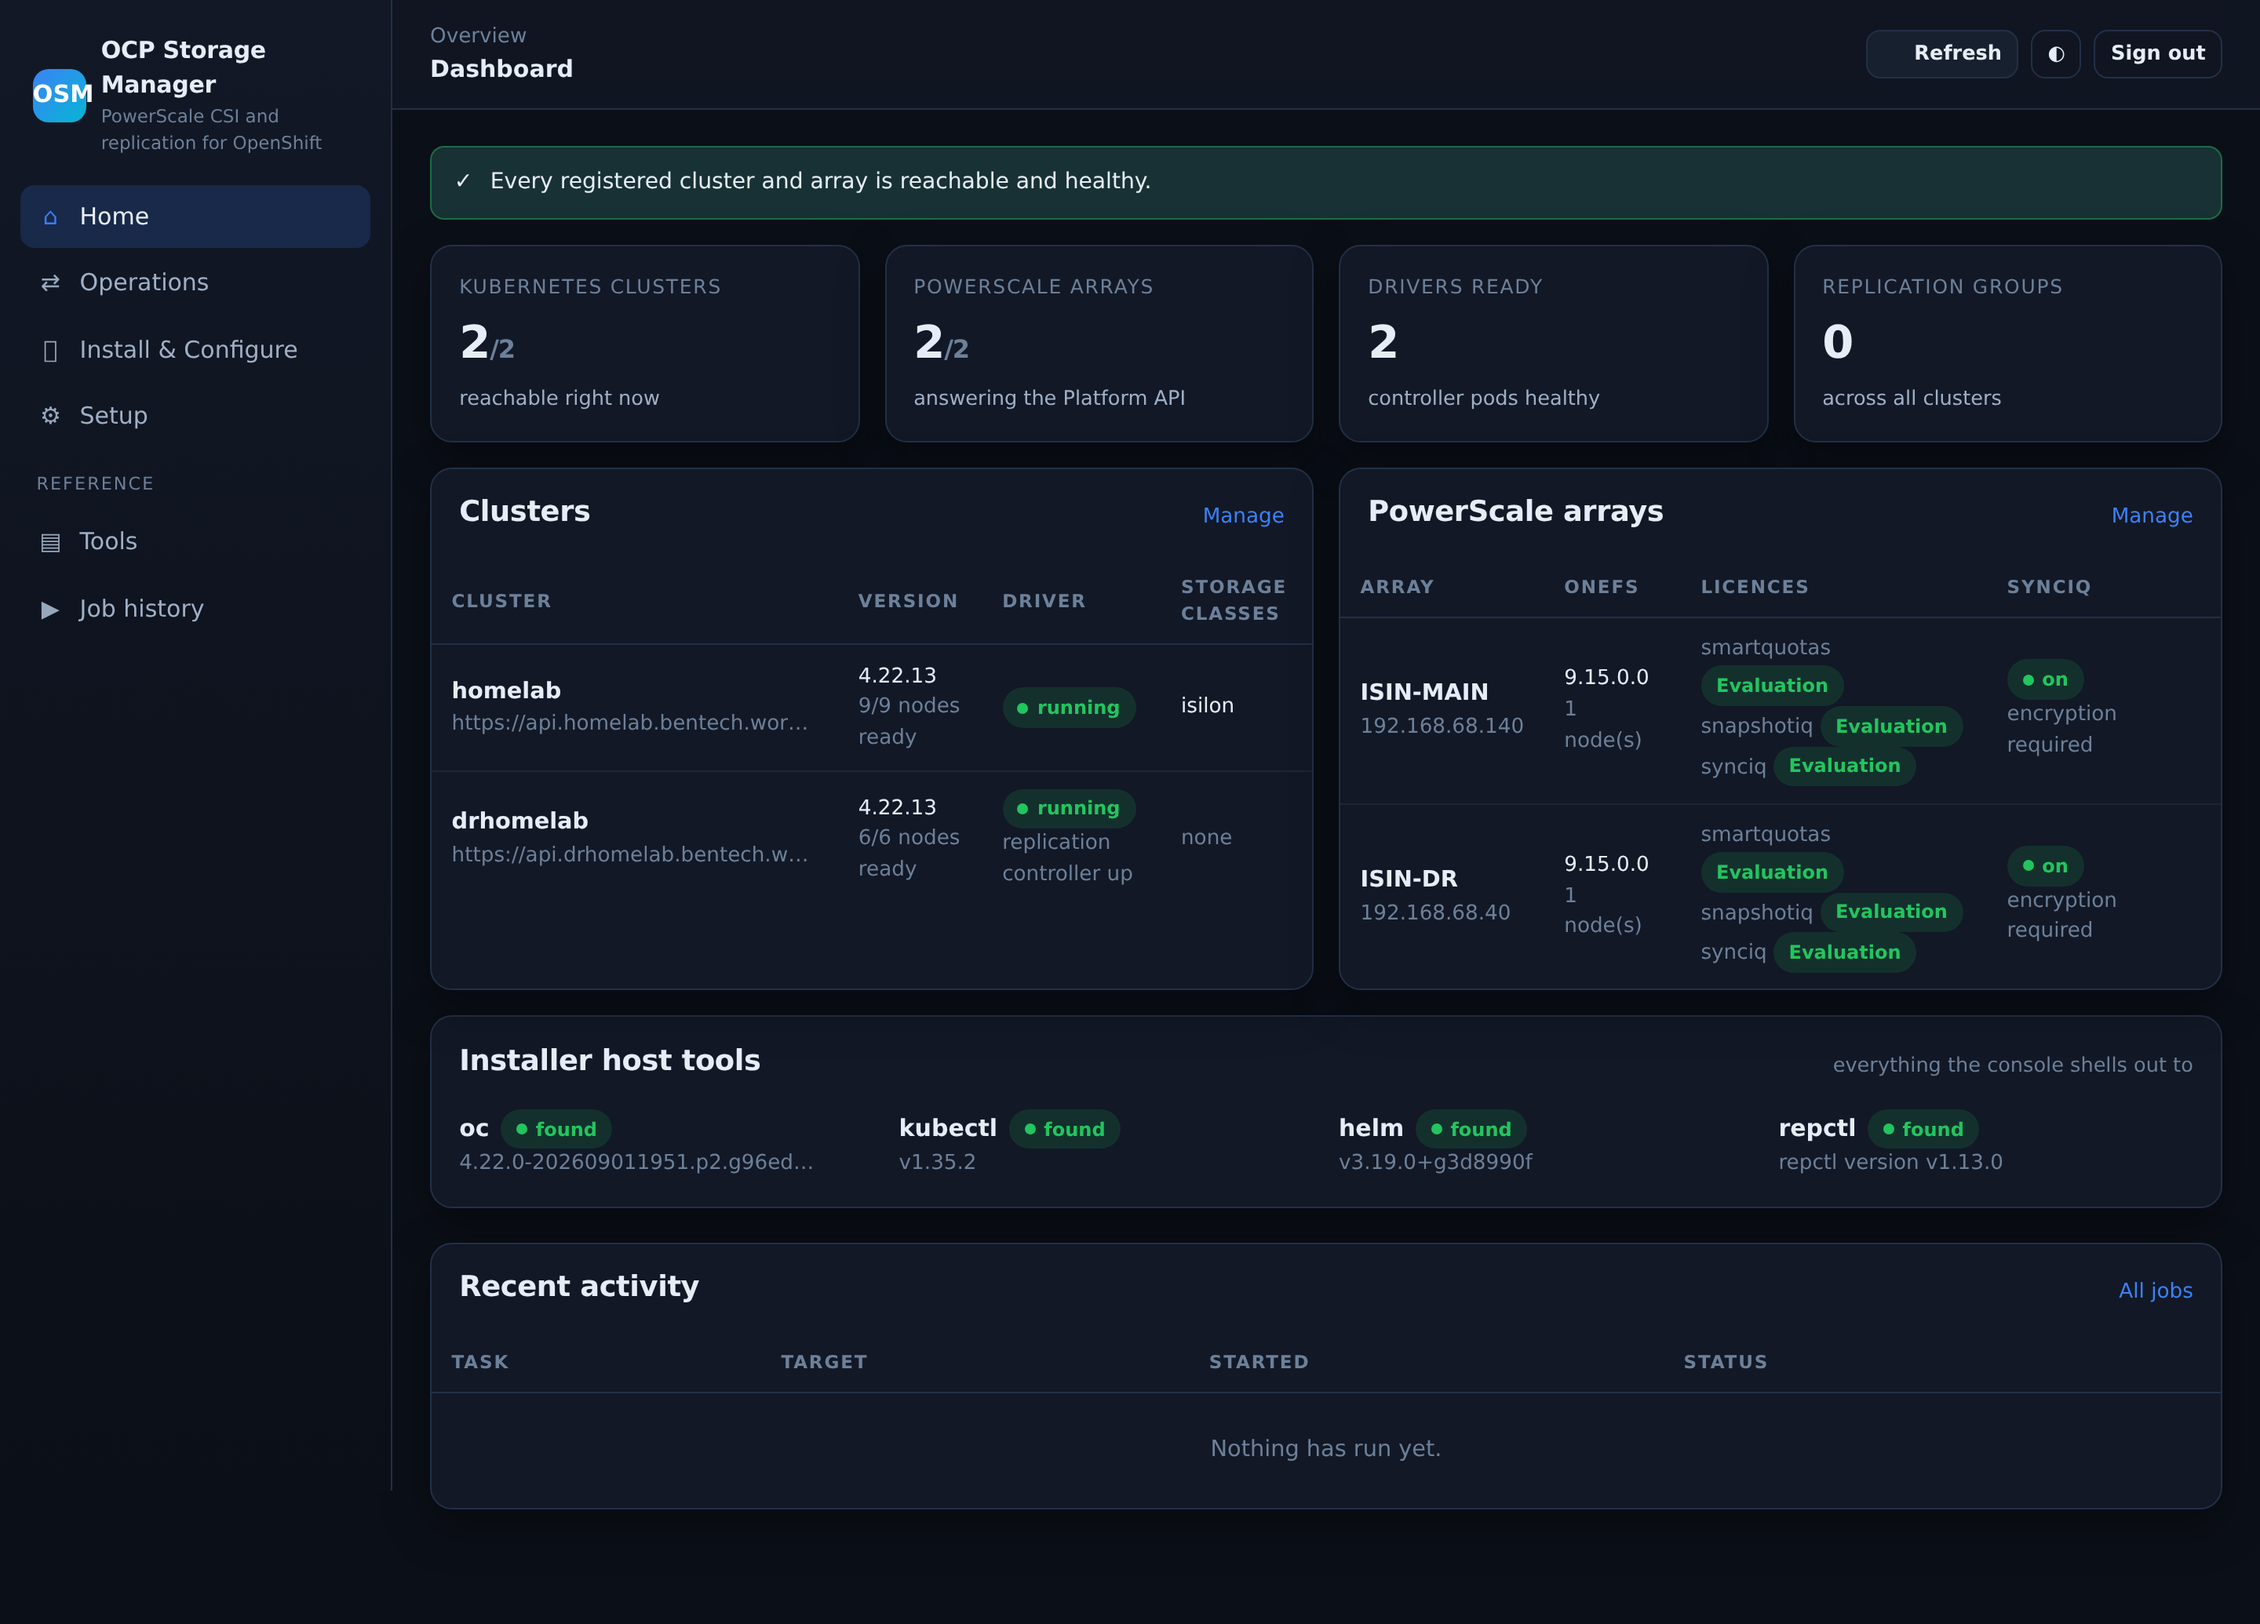
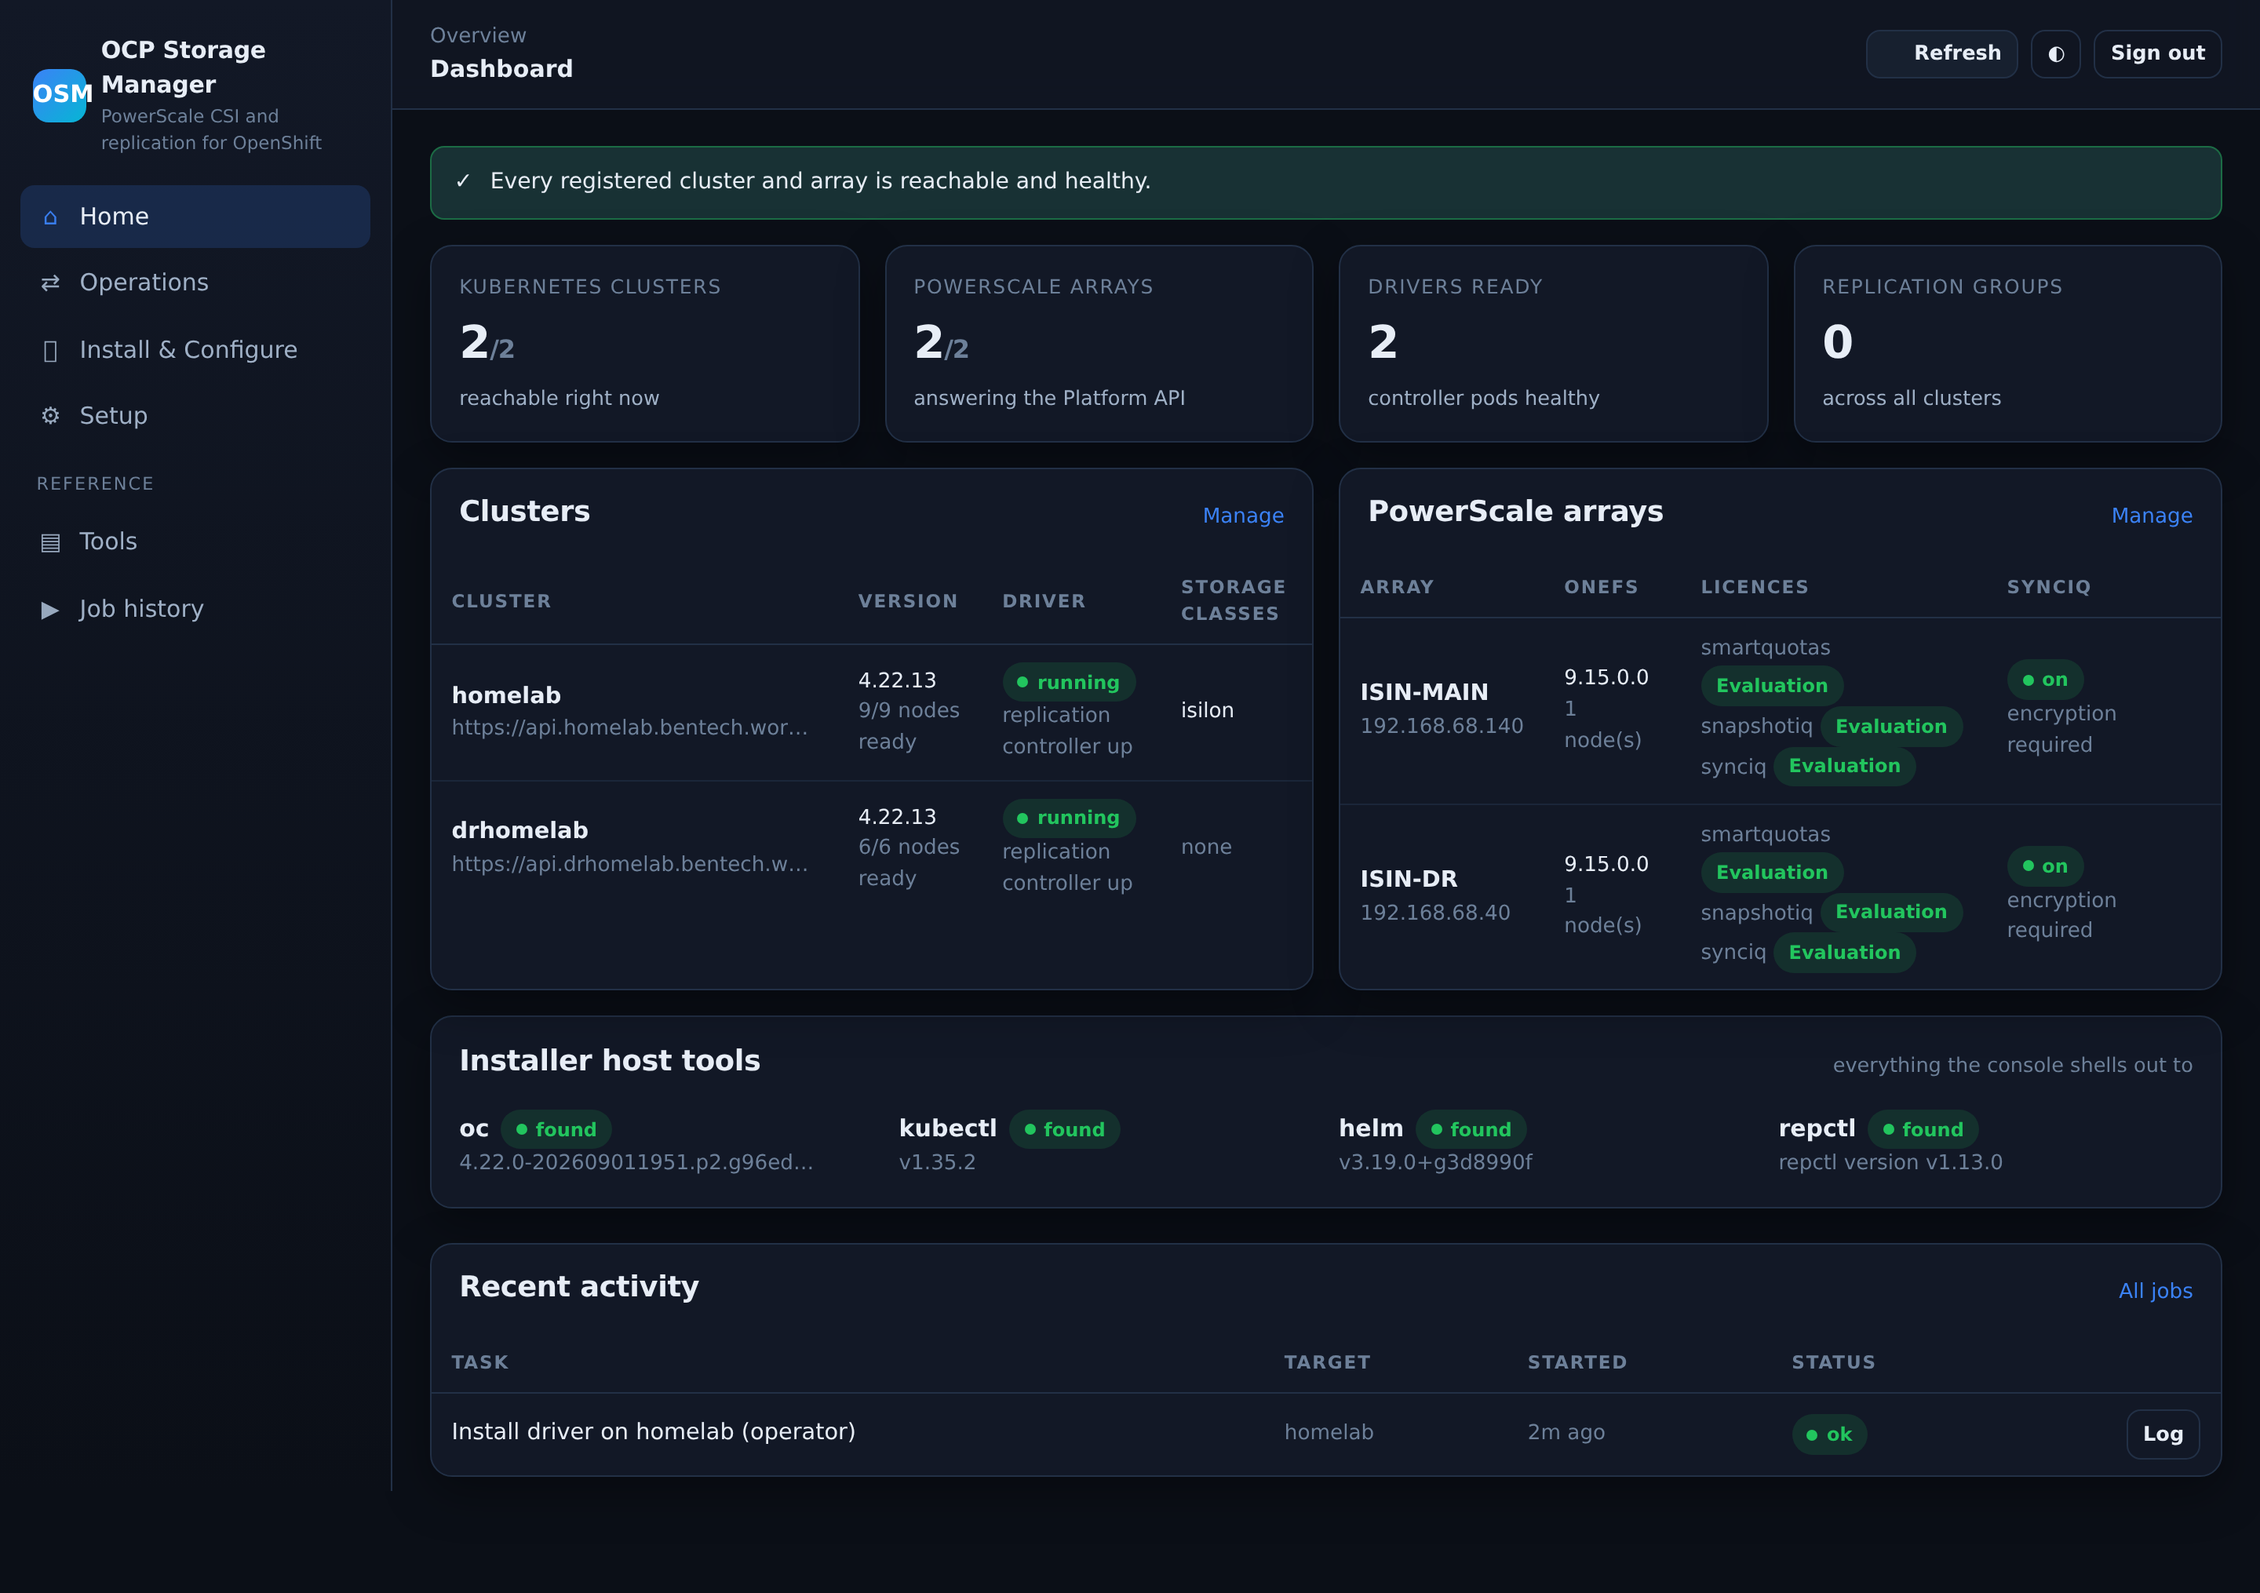
Driver status: one card per cluster, rendered with the install section
The status now lists every registered cluster instead of only the selected one, and
it is rendered server side inside section 4 rather than arriving later from a
background fetch, so it is part of the section from first paint. It still refreshes
itself and follows the cluster dropdown.

diff --git a/app/app/templates/partials/driver_status.html b/app/app/templates/partials/driver_status.html
@@ -1,8 +1,11 @@
+{% for row in rows %}
+{% set cluster = row.cluster %}{% set status = row.status %}{% set install = row.install %}
 <div class="banner {{ 'ok' if status.controller_ready and status.node_ready else ('warn' if status.pods else '') }}"
-     style="margin:.2rem 0 1rem">
+     style="margin:.2rem 0 .6rem{{ '; box-shadow: 0 0 0 1px var(--brand) inset' if row.selected }}">
   <span>{{ "✓" if status.controller_ready and status.node_ready else ("…" if status.pods else "•") }}</span>
   <div style="flex:1">
     <strong>{{ cluster.id }}</strong>
+    <span class="muted small">{{ cluster.role }}</span>
     {% if status.error %}
       <span class="pill bad"><span class="dot"></span>unreachable</span>
       <div class="small muted">{{ status.error }}</div>
@@ -17,7 +20,7 @@
       {% endif %}
       {% if install %}<span class="pill info">{{ install.method }}, {{ install.mode }}</span>{% endif %}
       <div class="small muted">
-        {{ status.pods|length }} pod(s) in {{ status.namespace }}:
+        {{ status.pods|length }} driver pod(s) in {{ status.namespace }}:
         {{ status.pods|selectattr('all_ready')|list|length }} ready,
         {{ status.pods|rejectattr('all_ready')|list|length }} not ready
         {% if status.csidriver %} &middot; CSI driver registered{% endif %}
@@ -30,27 +33,28 @@
           {{ sc.rpo }} to {{ sc.remote_cluster }}){% endif %}{% if not loop.last %}, {% endif %}{% endfor %}
       </div>
       {% endif %}
+      <details class="fold" style="border:0;padding-top:.2rem;margin-top:.2rem">
+        <summary><span class="chev">▸</span> <span class="small">pods</span></summary>
+        <table>
+          <thead><tr><th>Pod</th><th>Ready</th><th>Status</th><th class="num">Restarts</th><th>Node</th></tr></thead>
+          <tbody>
+            {% for p in status.pods %}
+            <tr>
+              <td class="small">{{ p.name }}</td>
+              <td><span class="pill {{ 'ok' if p.all_ready else 'warn' }}">{{ p.ready }}</span></td>
+              <td class="small">{{ p.phase }}</td>
+              <td class="small num">{{ p.restarts }}</td>
+              <td class="small muted">{{ p.node }}</td>
+            </tr>
+            {% endfor %}
+          </tbody>
+        </table>
+      </details>
     {% endif %}
   </div>
+  {% if loop.first %}
   <button class="btn sm ghost" hx-get="/install/driver/status" hx-include="[name='cluster_id']"
           hx-target="#driver-status" title="check again">↻</button>
+  {% endif %}
 </div>
-{% if status.pods %}
-<details class="fold" style="margin:-.4rem 0 1rem;border:0;padding-top:0">
-  <summary><span class="chev">▸</span> Pods <span class="muted small">on {{ cluster.id }}</span></summary>
-  <table>
-    <thead><tr><th>Pod</th><th>Ready</th><th>Status</th><th>Restarts</th><th>Node</th></tr></thead>
-    <tbody>
-      {% for p in status.pods %}
-      <tr>
-        <td class="small">{{ p.name }}</td>
-        <td><span class="pill {{ 'ok' if p.all_ready else 'warn' }}">{{ p.ready }}</span></td>
-        <td class="small">{{ p.phase }}</td>
-        <td class="small num">{{ p.restarts }}</td>
-        <td class="small muted">{{ p.node }}</td>
-      </tr>
-      {% endfor %}
-    </tbody>
-  </table>
-</details>
-{% endif %}
+{% endfor %}

diff --git a/app/app/templates/install.html b/app/app/templates/install.html
@@ -233,6 +233,10 @@
   <div class="card">
     <div class="card-head"><div><h2>4. Install the driver</h2>
       <div class="sub">Choose the install method and whether this site takes part in replication.</div></div></div>
+    <div id="driver-status" hx-get="/install/driver/status" hx-include="[name='cluster_id']"
+         hx-trigger="change from:[name='cluster_id'], every 20s" hx-swap="innerHTML">
+      {% with rows = driver_rows %}{% include "partials/driver_status.html" %}{% endwith %}
+    </div>
     <form hx-post="/install/driver" hx-target="#output">
       <div class="choices" style="margin-bottom:1rem">
         <label class="choice"><input type="radio" name="method" value="operator" checked>
@@ -251,8 +255,6 @@
           <div class="title">With replication</div>
           <div class="desc">Adds the replicator sidecar and the replication custom resource definitions.</div></label>
       </div>
-      <div id="driver-status" hx-get="/install/driver/status" hx-include="[name='cluster_id']"
-           hx-trigger="load, change from:[name='cluster_id'], every 20s"></div>
       <div class="row three">
         <div class="field"><label>Cluster</label>
           <select name="cluster_id" required>

diff --git a/app/app/routers/install.py b/app/app/routers/install.py
@@ -19,6 +19,11 @@ router = APIRouter()
 def _page(request: Request, **extra):
     state = store.load()
     data = inventory.snapshot()
+    # the driver status strips are rendered with the page, then refreshed in place
+    rows = [{"cluster": c, "status": c.get("driver") or {"pods": [], "namespace":
+             c.get("namespace", DRIVER_NAMESPACE_DEFAULT), "error": c.get("error", "")},
+             "install": state["installs"].get(c["id"]), "selected": False}
+            for c in data["clusters"]]
     ctx = {
         "page": "install", "state": state, "data": data,
         "clusters": list(state["clusters"].values()),
@@ -26,6 +31,7 @@ def _page(request: Request, **extra):
         "tools": data["tools"],
         "repctl_default": tools.default_repctl_choice(),
         "namespace_default": DRIVER_NAMESPACE_DEFAULT,
+        "driver_rows": rows,
     }
     ctx.update(extra)
     return templates.TemplateResponse(request, "install.html", ctx)
@@ -266,19 +272,27 @@ async def delete_array(request: Request, aid: str):
 
 @router.get("/install/driver/status", response_class=HTMLResponse)
 async def driver_status_partial(request: Request, cluster_id: str = ""):
-    """What is actually running on the selected cluster, shown next to the install form."""
+    """What is running on every registered cluster, shown above the install form."""
+    from concurrent.futures import ThreadPoolExecutor
+
     state = store.load()
-    cluster = state["clusters"].get(cluster_id) or next(iter(state["clusters"].values()), None)
-    if not cluster:
+    clusters = list(state["clusters"].values())
+    if not clusters:
         return HTMLResponse('<div class="banner"><span>•</span><div>Add a cluster first.</div></div>')
-    ns = cluster.get("namespace", DRIVER_NAMESPACE_DEFAULT)
-    try:
-        status = k8s.driver_status(cluster["kubeconfig"], ns)
-    except k8s.ClusterError as exc:
-        status = {"error": str(exc)[:200], "pods": [], "namespace": ns}
-    return templates.TemplateResponse(request, "partials/driver_status.html", {
-        "cluster": cluster, "status": status, "install": state["installs"].get(cluster["id"]),
-    })
+
+    def look(cluster: dict) -> dict:
+        ns = cluster.get("namespace", DRIVER_NAMESPACE_DEFAULT)
+        try:
+            status = k8s.driver_status(cluster["kubeconfig"], ns)
+        except k8s.ClusterError as exc:
+            status = {"error": str(exc)[:200], "pods": [], "namespace": ns}
+        return {"cluster": cluster, "status": status,
+                "install": state["installs"].get(cluster["id"]),
+                "selected": cluster["id"] == cluster_id}
+
+    with ThreadPoolExecutor(max_workers=6) as pool:
+        rows = list(pool.map(look, clusters))
+    return templates.TemplateResponse(request, "partials/driver_status.html", {"rows": rows})
 
 
 # --- driver install ------------------------------------------------------------
